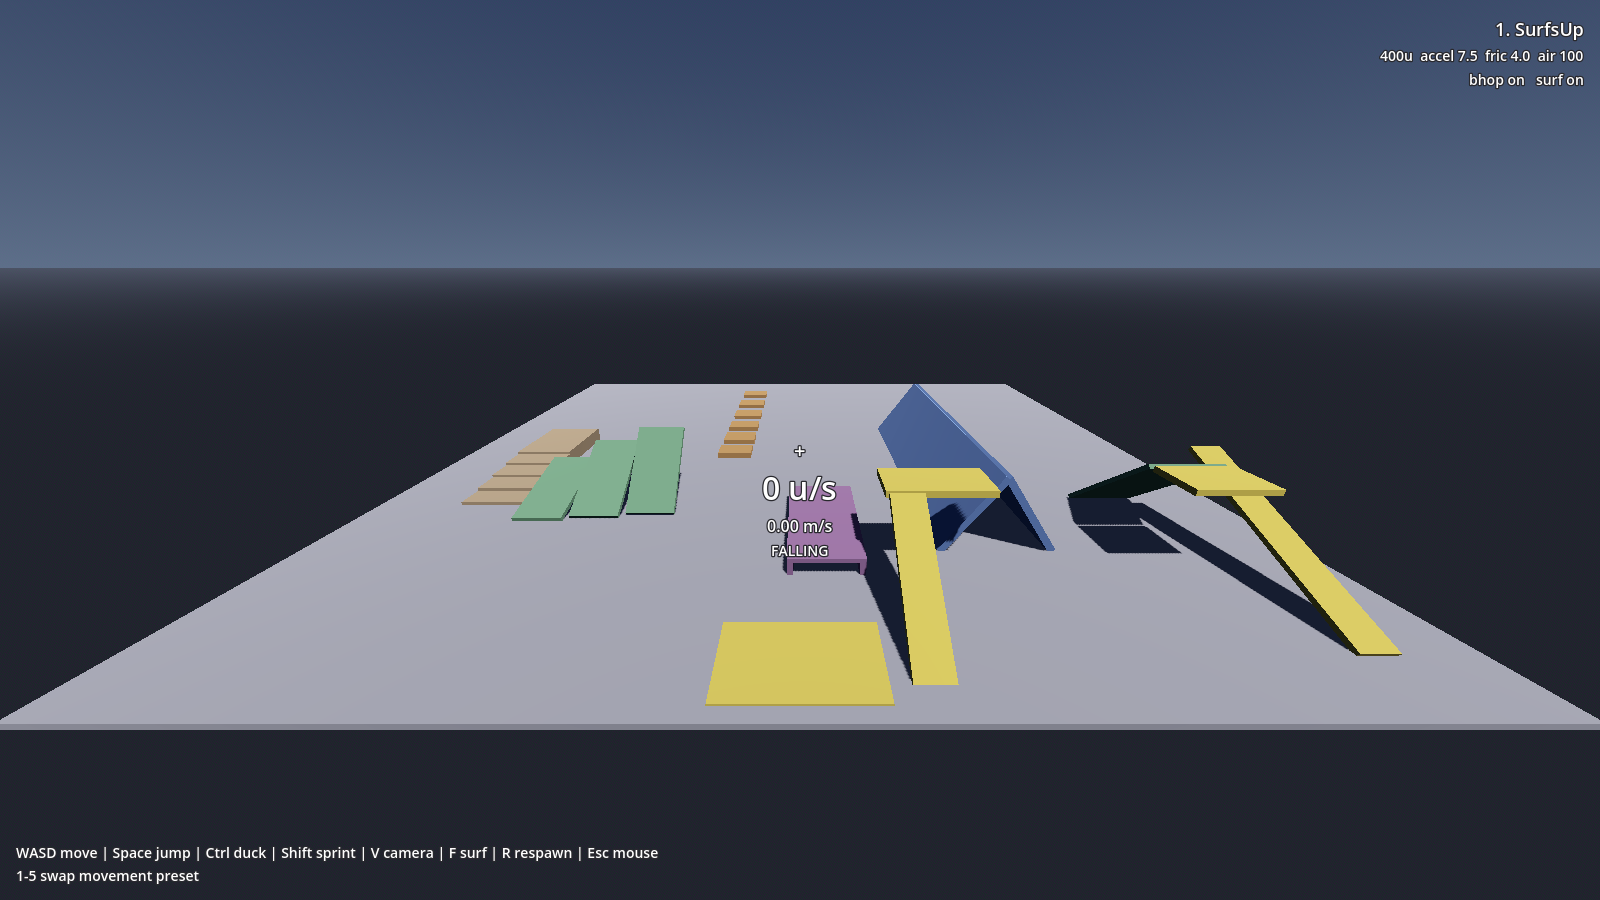
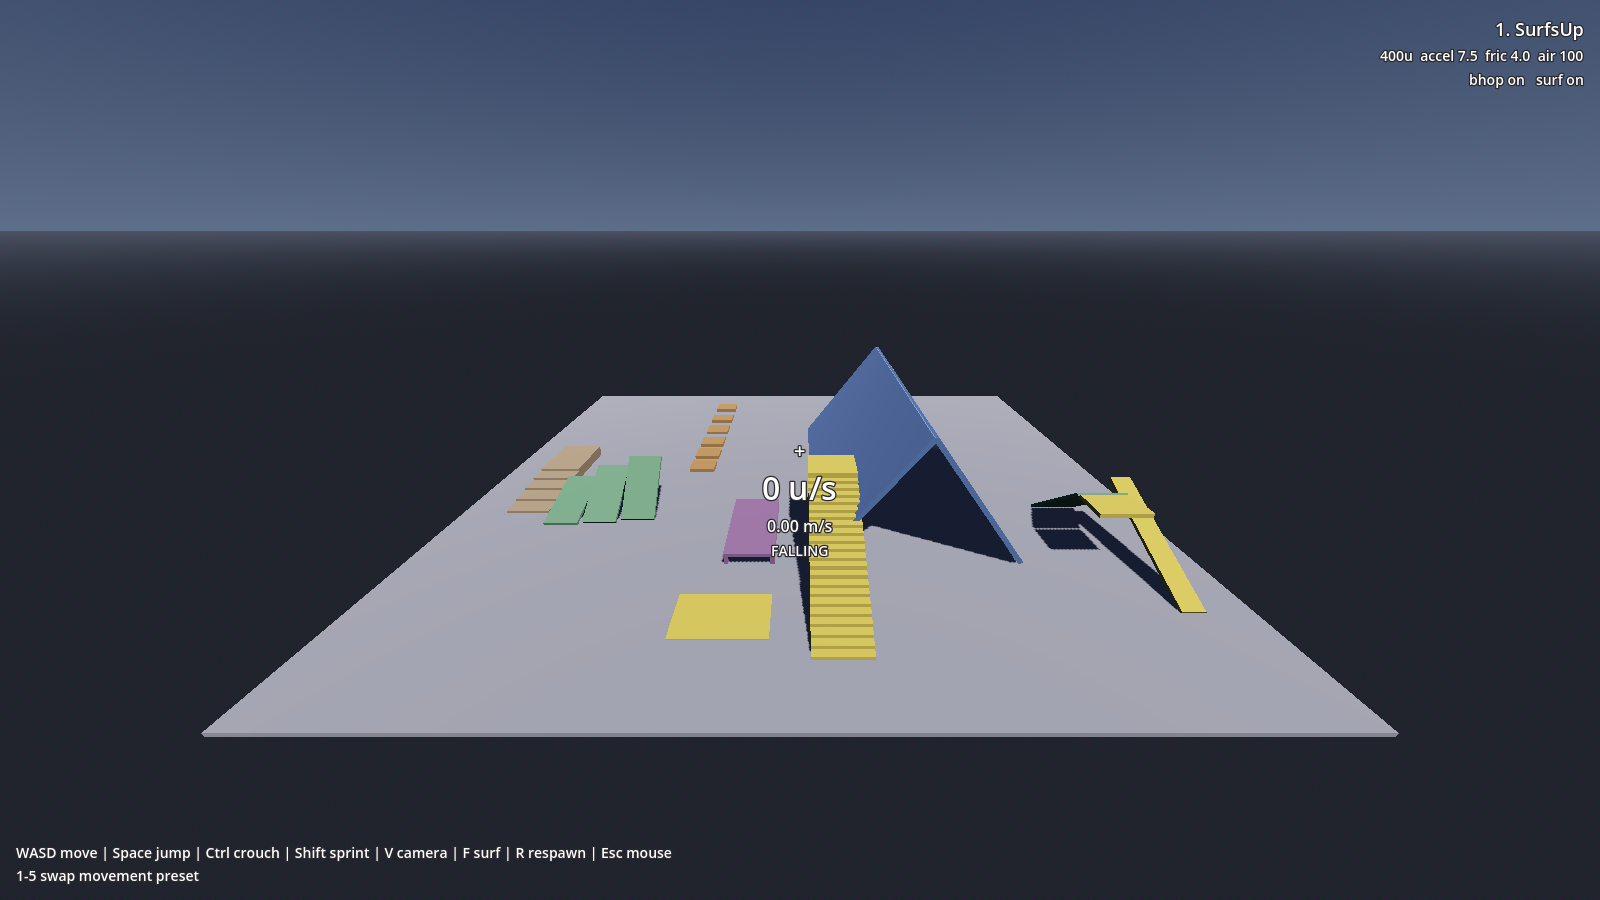
clean up and surf fix

Changed region(s): [[0.0, 0.3733, 1.0, 0.84], [0.0, 0.2489, 1.0, 0.3422], [0.1562, 0.9333, 0.4062, 0.9644]]

diff --git a/docs/explanation/demo-level.md b/docs/explanation/demo-level.md
@@ -32,7 +32,7 @@ shapes.
 |---|---|
 | WASD | Move |
 | Space | Jump (hold to bunnyhop) |
-| Ctrl | Duck |
+| Ctrl | Crouch |
 | Shift | Sprint |
 | V | First/third person |
 | F | Toggle surf jumps |
@@ -48,9 +48,9 @@ Five steps of 12 units (0.305 m) each, rising to a landing at 1.77 m.
 
 Twelve units is two-thirds of the 18-unit step limit every one of these engines uses.
 That's deliberate: at 16 units the flight technically works but feels like wading, because
-you're brushing the limit on every step. Walking up here should be smooth and unremarkable
-,  if it stutters, the [step handling](movement.md#why-stairs-need-special-handling) is
-broken.
+you're brushing the limit on every step. Walking up here should be smooth and
+unremarkable. If it stutters, the
+[step handling](movement.md#why-stairs-need-special-handling) is broken.
 
 To the right sits a lone **20-unit step (0.508 m)**, just above the limit. You cannot walk
 onto it. You can jump onto it. That's the boundary made visible.
@@ -108,18 +108,24 @@ automatically.
 
 ![The surf ramp, a peak with two sloped faces](../images/gym-surf.png)
 
-Two faces at **55°** meeting at an apex, forming a peak rather than a valley.
+Two faces at **53.1°** meeting at an apex 16.5 m up, forming a peak rather than a
+valley. The footprint is 24.4 m wide, which is the Momentum Mod mapping spec:
+960 x 640 units for a double-sided ramp, a 5:4 ratio.
 
-55° is past the 50° standing limit, so the surfaces never count as floor and you stay
+53.1° is past the 50° standing limit, so the surfaces never count as floor and you stay
 permanently airborne on them, which is exactly what
-[makes surfing work](movement.md#why-surfing-works). Walk up the yellow access ramp on the
-left (a walkable 35°) to the platform at the top, drop onto either face, and hold a strafe
-key into the slope.
+[makes surfing work](movement.md#why-surfing-works). Climb the yellow staircase on the
+left to the launch platform, drop onto either face, and hold a strafe key into the slope.
 
 The peak shape is the one real surf maps use, and it matters. On a peak you ride the
 outer face with open floor beside you, so easing off the strafe key drops you off the
 side. That is the skill the mode is built around. A valley would funnel you into the
 bottom and hold you there, which teaches nothing.
+
+Size matters as much as shape. The Momentum guide warns that "people may find
+themselves sliding off the bottoms of small ramps", and an undersized ramp gives you
+no time to build speed before you reach the floor. At 400 u/s you cross a spec-width
+ramp in about 2.4 seconds, against under a second on a ramp a third of that size.
 
 ## Slide
 
